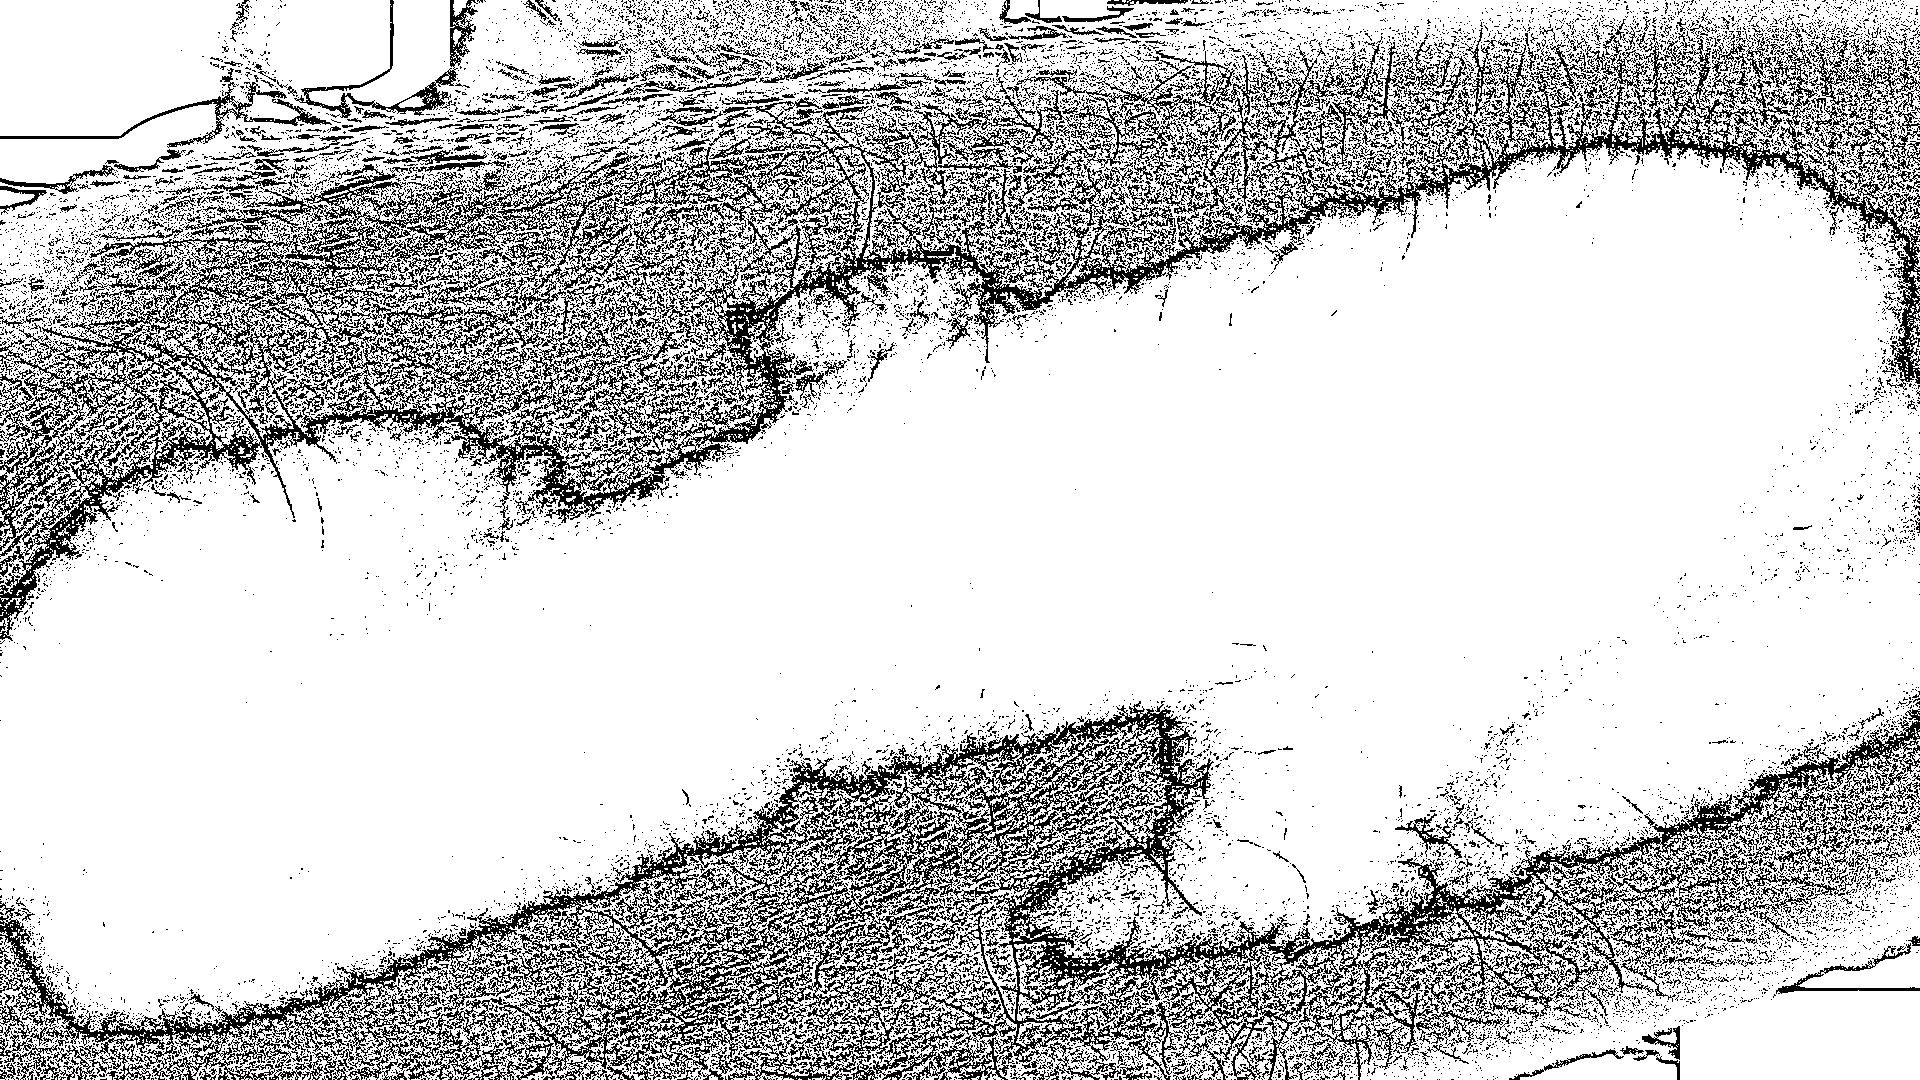
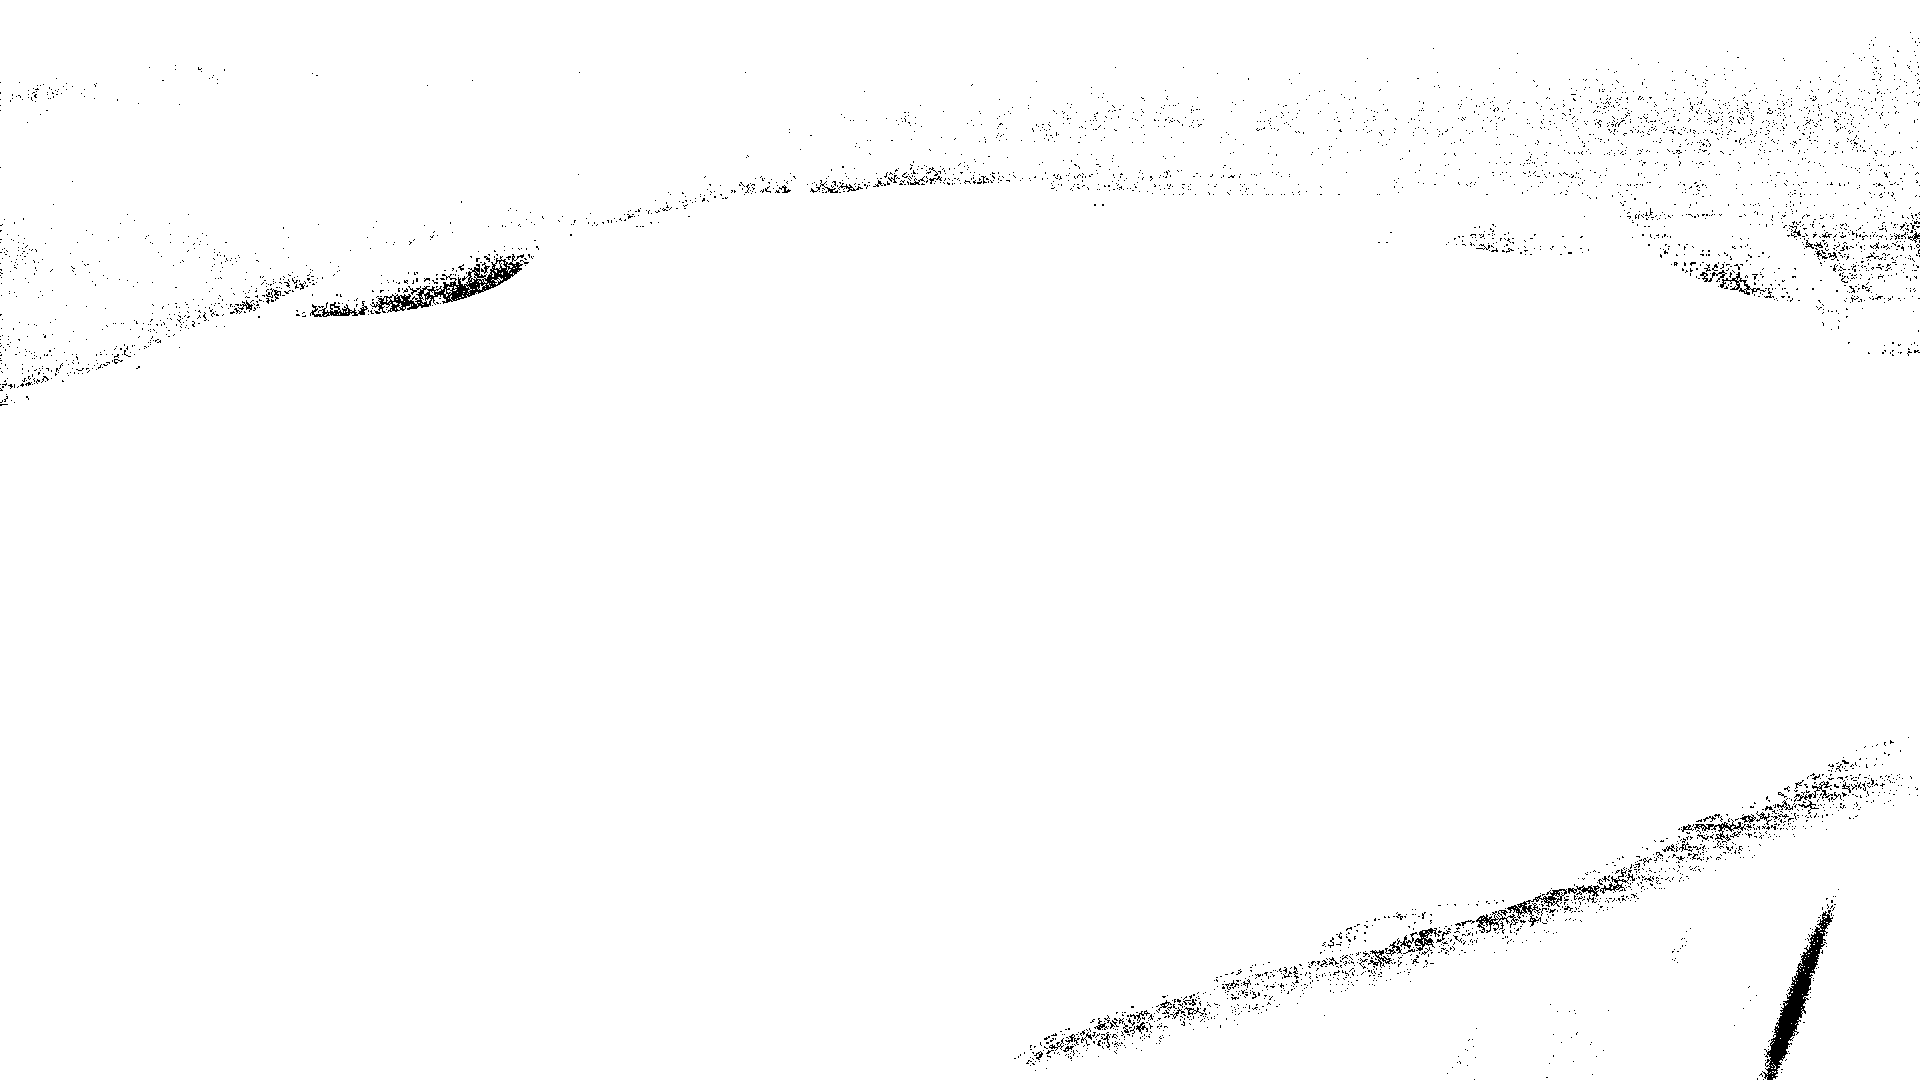
30.03 16:46

Changed region(s): [[0.0, 0.0, 1.0, 0.5806], [0.0, 0.6417, 1.0, 1.0], [0.875, 0.2444, 0.9375, 0.275]]

diff --git a/Ocvpydeneme.py b/Ocvpydeneme.py
@@ -38,11 +38,11 @@ cv2.imwrite('clahevein.png',cl1)
 sleep(0.042)
 bnw=cv2.imread('clahevein.png',cv2.IMREAD_GRAYSCALE)
 sleep(0.042)
-thresh=cv2.adaptiveThreshold(equ,255,cv2.ADAPTIVE_THRESH_GAUSSIAN_C,cv2.THRESH_BINARY,11,2)
+thresh=cv2.adaptiveThreshold(equ,255,cv2.ADAPTIVE_THRESH_GAUSSIAN_C,cv2.THRESH_BINARY,111,20)
 sleep(0.042)
 cv2.imwrite('bwdenemegaussian.png',thresh)
 sleep(0.042)
-thresh1=cv2.adaptiveThreshold(equ,255,cv2.ADAPTIVE_THRESH_MEAN_C,cv2.THRESH_BINARY,11,2)
+thresh1=cv2.adaptiveThreshold(equ,255,cv2.ADAPTIVE_THRESH_MEAN_C,cv2.THRESH_BINARY,111,20)
 sleep(0.042)
 cv2.imwrite('bwdenememean.png',thresh1)
 sleep(0.042)
